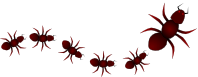
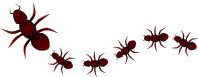
Try out aarossig's ant image positioning

Changed region(s): [[0.0, 0.0519, 1.0, 1.0], [0.9091, 0.0519, 0.9394, 0.0779], [0.0606, 0.0519, 0.0909, 0.0779]]

diff --git a/website/css/layout.css b/website/css/layout.css
@@ -61,7 +61,7 @@ body {
     overflow: hidden;
     background-image: url('images/ants.png');
     background-repeat: no-repeat;
-    background-position: bottom;
+    background-position: center 52px;
 }
 
 #header .left, #footer {
@@ -146,6 +146,9 @@ body {
 
 #menu {
     padding: 10px;
+    background-image: url('images/ants.png');
+    background-repeat: no-repeat;
+    background-position: center -58px;
 }
 
 #menu h1 {
